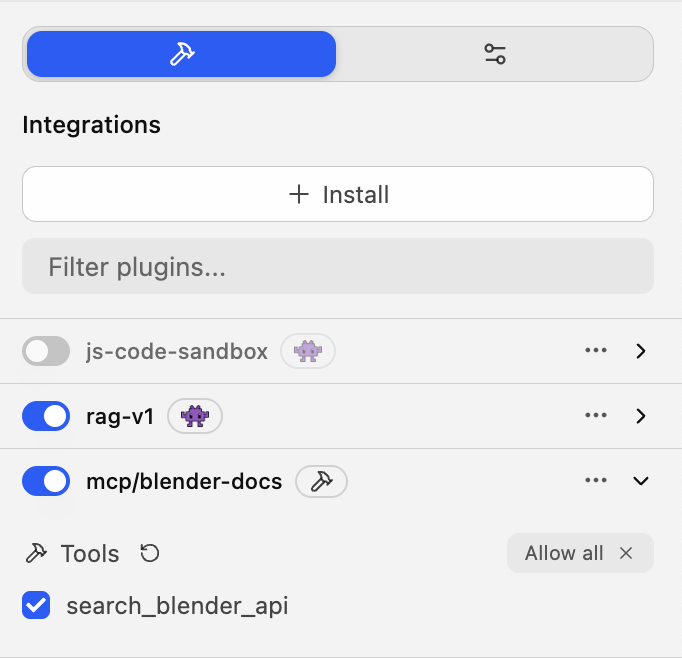
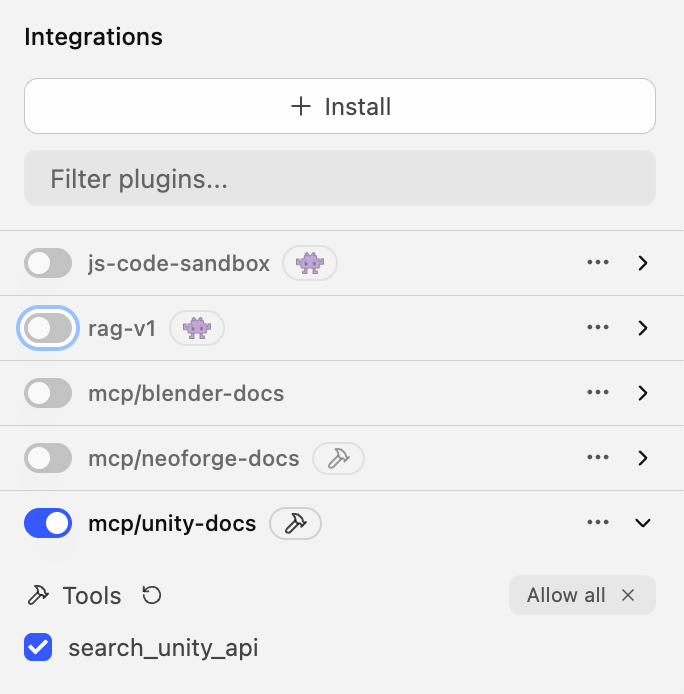
update documentation images

diff --git a/docs/setup_tooling.md b/docs/setup_tooling.md
@@ -8,7 +8,7 @@ In the Developer Tab, edit the **mcp.json**
 {
   "mcpServers": {
     "unity_docs": {
-      "url": "http://127.0.0.1:8000/mcp"
+      "url": "http://127.0.0.1:8002/mcp"
     }
   }
 }
@@ -27,7 +27,7 @@ To get the tool operational with OpenCode, add the following to your **opencode.
   "mcp": {
     "unity-docs": {
       "type": "remote",
-      "url": "http://host.docker.internal:8000/mcp",
+      "url": "http://host.docker.internal:8002/mcp",
       "enable": true
     }
   }
